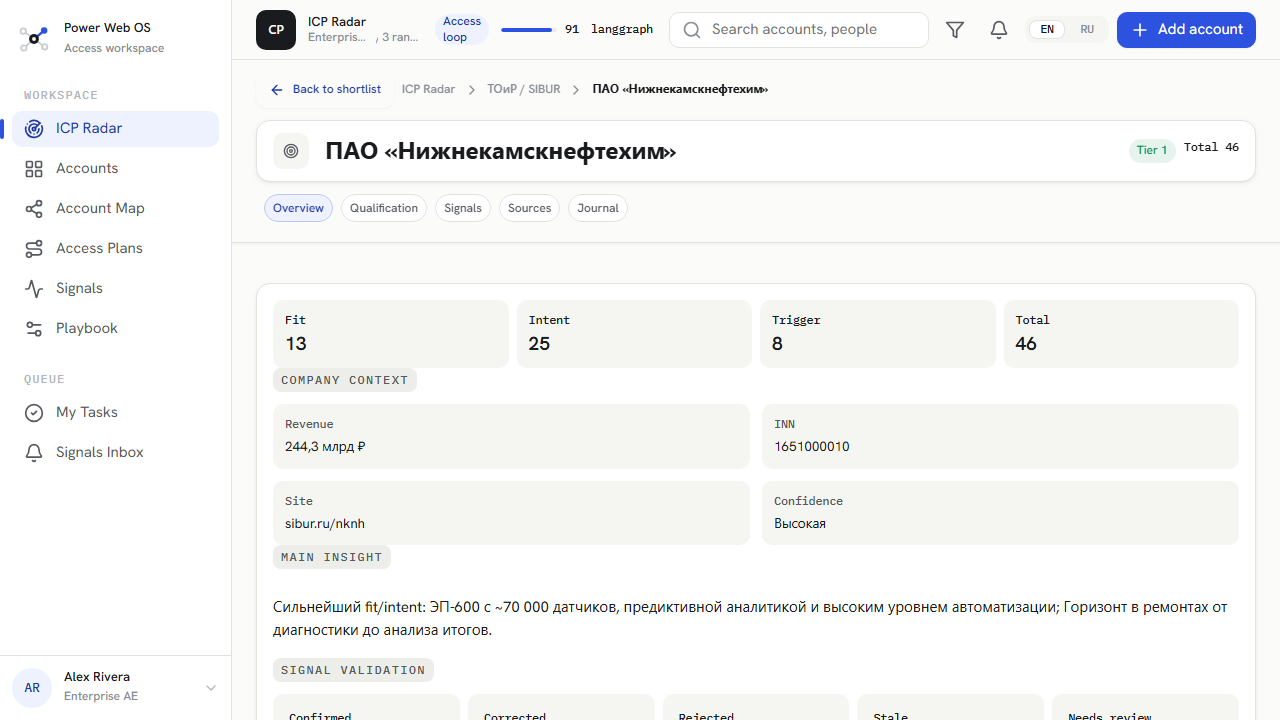
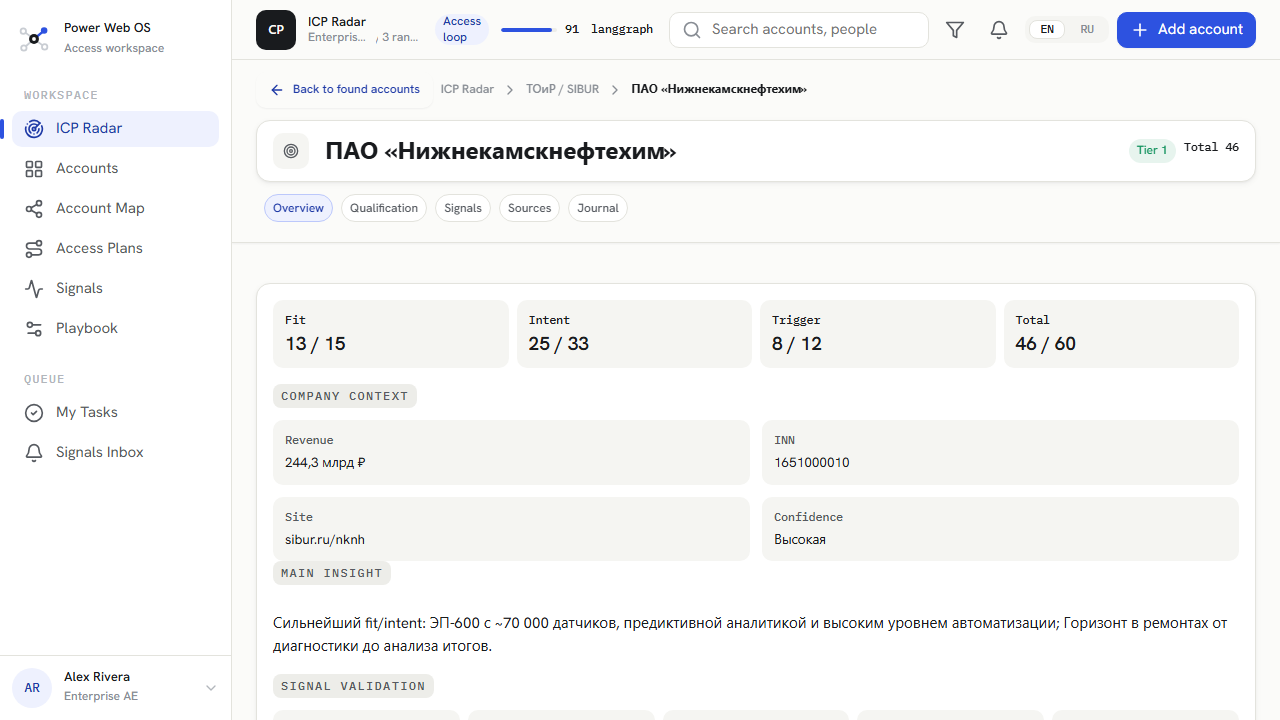
Polish ICP Radar live UX

diff --git a/frontend/src/i18n.ts b/frontend/src/i18n.ts
@@ -48,11 +48,11 @@ export const resources = {
         loadingTitle: 'Loading ICP Radar',
         loadingCopy: 'Reading the generated ICP Radar artifact from the local Vite server.',
         eyebrow: 'ICP Radar',
-        title: 'ТОиР automation shortlist',
+        title: 'ТОиР automation found accounts',
         summary: '{{count}} legal entities ranked for {{product}} inside {{holding}}.',
         tableAria: 'ICP Radar ranked candidate table',
         breadcrumbs: 'ICP Radar candidate breadcrumbs',
-        backToTable: 'Back to shortlist',
+        backToTable: 'Back to found accounts',
         columns: {
           company: 'Company',
           total: 'Total',
@@ -255,7 +255,7 @@ export const resources = {
         backToCatalog: 'Back to radar catalog',
         radarBreadcrumbs: 'ICP Radar breadcrumbs',
         radarTabs: 'Radar detail tabs',
-        shortlistTab: 'Shortlist',
+        shortlistTab: 'Found accounts',
         settingsTab: 'Settings',
         readOnly: 'Read-only',
         createRadar: 'Create radar',
@@ -273,9 +273,9 @@ export const resources = {
         newRadarOwner: 'ABM Team',
         duplicateName: '{{name}} copy',
         editingPlanned: 'Editing planned',
-        emptyShortlistEyebrow: 'Shortlist',
+        emptyShortlistEyebrow: 'Found accounts',
         emptyShortlistTitle: 'No generated candidates yet',
-        emptyShortlistCopy: '{{radarName}} is configured, but this demo slice has no generated shortlist for it.',
+        emptyShortlistCopy: '{{radarName}} is configured, but this demo slice has no generated found accounts for it.',
         emptyShortlistSummary: '{{product}} radar is configured without generated candidates in this slice.',
         openSettings: 'Open settings',
         radarStatus: {
@@ -697,11 +697,11 @@ export const resources = {
         loadingTitle: 'Загрузка ICP Radar',
         loadingCopy: 'Читаем сгенерированный ICP Radar artifact с локального Vite server.',
         eyebrow: 'ICP Radar',
-        title: 'Shortlist для автоматизации ТОиР',
+        title: 'Найденные аккаунты для автоматизации ТОиР',
         summary: '{{count}} юрлиц отранжированы для {{product}} внутри {{holding}}.',
         tableAria: 'Таблица кандидатов ICP Radar',
         breadcrumbs: 'Навигация по карте кандидата ICP Radar',
-        backToTable: 'К shortlist',
+        backToTable: 'К найденным аккаунтам',
         columns: {
           company: 'Компания',
           total: 'Итог',
@@ -903,7 +903,7 @@ export const resources = {
         backToCatalog: 'К каталогу радаров',
         radarBreadcrumbs: 'Навигация ICP Radar',
         radarTabs: 'Режимы радара',
-        shortlistTab: 'Shortlist',
+        shortlistTab: 'Найденные аккаунты',
         settingsTab: 'Настройки',
         readOnly: 'Только просмотр',
         createRadar: 'Создать радар',
@@ -921,9 +921,9 @@ export const resources = {
         newRadarOwner: 'ABM-команда',
         duplicateName: '{{name}} копия',
         editingPlanned: 'Редактирование запланировано',
-        emptyShortlistEyebrow: 'Shortlist',
+        emptyShortlistEyebrow: 'Найденные аккаунты',
         emptyShortlistTitle: 'Кандидаты еще не сгенерированы',
-        emptyShortlistCopy: '{{radarName}} настроен, но в этом demo-слайсе для него нет сгенерированного shortlist.',
+        emptyShortlistCopy: '{{radarName}} настроен, но в этом demo-слайсе для него нет сгенерированных найденных аккаунтов.',
         emptyShortlistSummary: 'Радар {{product}} настроен без сгенерированных кандидатов в этом слайсе.',
         openSettings: 'Открыть настройки',
         radarStatus: {

diff --git a/frontend/src/screens/ICPRadarScreen.tsx b/frontend/src/screens/ICPRadarScreen.tsx
@@ -1169,10 +1169,10 @@ function LiveRadarCandidateDetailView({
         {activeTab === 'overview' && (
           <Card>
             <div className="icp-score-grid">
-              <ScoreBox label={t('icpRadar.total')} value={liveTotalScore(candidate)} />
-              <ScoreBox label={t('icpRadar.fit')} value={candidate.score.fit_score} />
-              <ScoreBox label={t('icpRadar.intent')} value={candidate.score.intent_score} />
-              <ScoreBox label={t('icpRadar.live.sources')} value={candidate.evidence_refs.length} />
+              <ScoreBox label={t('icpRadar.total')} value={scoreWithMax(liveTotalScore(candidate), liveTotalScoreMax(candidate))} />
+              <ScoreBox label={t('icpRadar.fit')} value={scoreWithMax(candidate.score.fit_score, liveFitScoreMax(candidate))} />
+              <ScoreBox label={t('icpRadar.intent')} value={scoreWithMax(candidate.score.intent_score, liveIntentScoreMax(candidate))} />
+              <ScoreBox label={t('icpRadar.live.sources')} value={scoreWithMax(candidate.evidence_refs.length, artifact.sources.length)} />
             </div>
             <section className="icp-detail-section">
               <Eyebrow>{t('icpRadar.canonicalDetail.mainInsight')}</Eyebrow>
@@ -2507,10 +2507,10 @@ function CandidateScoreGrid({ candidate, validatedScore }: { candidate: ICPRadar
   const delta = validatedScore.effective_score.total_score - validatedScore.original_score.total_score;
   return (
     <div className="icp-score-grid">
-      <ScoreBox label={t('icpRadar.fit')} value={validatedScore.effective_score.fit_score} />
-      <ScoreBox label={t('icpRadar.intent')} value={validatedScore.effective_score.intent_score} />
-      <ScoreBox label={t('icpRadar.trigger')} value={validatedScore.effective_score.trigger_score} />
-      <ScoreBox delta={delta} label={t('icpRadar.total')} value={validatedScore.effective_score.total_score} />
+      <ScoreBox label={t('icpRadar.fit')} value={scoreWithMax(validatedScore.effective_score.fit_score, 15)} />
+      <ScoreBox label={t('icpRadar.intent')} value={scoreWithMax(validatedScore.effective_score.intent_score, 33)} />
+      <ScoreBox label={t('icpRadar.trigger')} value={scoreWithMax(validatedScore.effective_score.trigger_score, 12)} />
+      <ScoreBox delta={delta} label={t('icpRadar.total')} value={scoreWithMax(validatedScore.effective_score.total_score, 60)} />
     </div>
   );
 }
@@ -2591,7 +2591,7 @@ function SourceUrlList({ candidate }: { candidate: ICPRadarCandidate }) {
   );
 }
 
-function ScoreBox({ delta = 0, label, value }: { delta?: number; label: string; value: number }) {
+function ScoreBox({ delta = 0, label, value }: { delta?: number; label: string; value: number | string }) {
   return (
     <div className="icp-score-box">
       <Mono>{label}</Mono>
@@ -3360,6 +3360,22 @@ function radarOperationalStatus(status: string): RadarOperationalStatus {
 
 function liveTotalScore(candidate: LiveRadarCandidate): number {
   return candidate.score.fit_score + candidate.score.intent_score;
+}
+
+function liveFitScoreMax(candidate: LiveRadarCandidate): number {
+  return Math.max(candidate.qualification.length, candidate.score.fit_score);
+}
+
+function liveIntentScoreMax(candidate: LiveRadarCandidate): number {
+  return Math.max(candidate.signals.length * 2, candidate.score.intent_score);
+}
+
+function liveTotalScoreMax(candidate: LiveRadarCandidate): number {
+  return liveFitScoreMax(candidate) + liveIntentScoreMax(candidate);
+}
+
+function scoreWithMax(score: number, maxScore: number): string {
+  return `${score} / ${Math.max(score, maxScore)}`;
 }
 
 function cadenceKey(cadence: string) {

diff --git a/frontend/src/styles.css b/frontend/src/styles.css
@@ -1030,7 +1030,7 @@ button {
 
 .icp-radar-table {
   display: grid;
-  min-width: calc(var(--s-20) * 15);
+  min-width: calc(var(--s-20) * 13);
 }
 
 .icp-radar-table-head,
@@ -1389,17 +1389,8 @@ button {
   white-space: nowrap;
 }
 
-.icp-radar-table-live .icp-radar-table-head,
-.icp-radar-table-live .icp-candidate-row {
-  grid-template-columns:
-    minmax(calc(var(--s-20) * 3), calc(var(--s-20) * 4))
-    minmax(var(--s-12), var(--s-16))
-    var(--s-16)
-    var(--s-16)
-    var(--s-16)
-    var(--s-16)
-    var(--s-16)
-    minmax(calc(var(--s-20) + var(--s-6)), 0.8fr);
+.icp-radar-table-live {
+  min-width: calc(var(--s-20) * 13);
 }
 
 .live-radar-fact-list,
@@ -2217,6 +2208,10 @@ button {
   min-width: 0;
 }
 
+.icp-score-grid + .icp-detail-section {
+  margin-top: var(--s-4);
+}
+
 .icp-detail-section > .eyebrow,
 .icp-preview-section > .eyebrow {
   align-self: start;
@@ -2274,6 +2269,26 @@ button {
   grid-template-columns: var(--s-10) minmax(0, 1fr) var(--s-8);
   padding: var(--s-2);
   border-bottom: 1px solid var(--border-faint);
+}
+
+.icp-candidate-preview .criterion-row {
+  grid-template-columns: var(--s-10) minmax(0, 1fr) minmax(var(--s-16), max-content);
+  column-gap: var(--s-4);
+  align-items: center;
+}
+
+.icp-candidate-preview .criterion-row > span {
+  padding-inline-end: var(--s-3);
+}
+
+.icp-candidate-preview .criterion-row > :last-child {
+  justify-self: end;
+}
+
+.icp-candidate-preview .criterion-row .badge {
+  max-width: calc(var(--s-20) * 2);
+  overflow: hidden;
+  text-overflow: ellipsis;
 }
 
 .criteria-list-compact {

diff --git a/tests/test_frontend_demo_contract.py b/tests/test_frontend_demo_contract.py
@@ -533,6 +533,11 @@ def test_icp_radar_screen_is_default_and_loads_fixture_artifact() -> None:
     assert ".icp-radar-run-mode" in css
     assert ".icp-radar-header-meta-row" in css
     assert ".icp-radar-table-live" in css
+    assert ".icp-radar-table-live .icp-radar-table-head" not in css
+    assert ".icp-radar-table-live .icp-candidate-row" not in css
+    assert ".icp-candidate-preview .criterion-row" in css
+    assert "grid-template-columns: var(--s-10) minmax(0, 1fr) minmax(var(--s-16), max-content)" in css
+    assert ".icp-score-grid + .icp-detail-section" in css
     assert "--s-14" not in css
     assert ".icp-candidate-detail-tabs" in css
     assert ".icp-candidate-detail-panel" in css
@@ -660,6 +665,10 @@ def test_icp_radar_screen_is_default_and_loads_fixture_artifact() -> None:
         "Уверенность",
     ]:
         assert ru_label in i18n
+    assert "shortlistTab: 'Found accounts'" in i18n
+    assert "shortlistTab: 'Найденные аккаунты'" in i18n
+    assert "backToTable: 'Back to found accounts'" in i18n
+    assert "backToTable: 'К найденным аккаунтам'" in i18n
 
 
 def test_frontend_public_artifact_is_available_for_vite() -> None:

diff --git a/demo/README.md b/demo/README.md
@@ -77,7 +77,7 @@ The live mini radar command writes `demo/output/live_mini_icp_radar_run.json` an
 
 When the live artifact exists, inspect `ТОиР Quick Live Radar` through the same shortlist UX as the fixture radar: sticky first candidate column, bounded inline preview, and `Open details` into the tabbed in-shell candidate detail view. Live runtime metadata is shown in the `Journal` tab. Live results are a different data source, not a different UI pattern.
 
-The frontend command prints a local Vite URL. Open it to inspect the `ICP Radar` catalog first, switch the UI between EN/RU from the top bar if needed, then open `ТОиР / SIBUR`. Use `Shortlist` to scan candidates and `Settings` to inspect or edit the radar definition. Settings are edited by block: selected radar header, global search base, account qualification rules, monitoring, intent signals, scoring model, and validation. The header owns name, description, active status, read-only owner, duplicate, local delete, and reset. Rules and signals are edited in business language as flat natural-language rows; generated IDs/codes are shown only as compact references and are not manually edited. Sources are entities, the global source base is shown as a bounded table, and rule/signal source policy uses global-base, local-source, cross-validation, and HITL switches instead of source IDs or fallback confidence. Monitoring uses dropdown policies and number/unit duration controls. Scoring uses Fit, Intent, and Tier models with preset dropdowns; custom formula text appears only in custom mode. Settings edits are saved only to browser local demo state under `power-web-os-icp-radar-config-overrides`; they do not rewrite generated JSON, run live search, or recalculate the fixture shortlist. Click a candidate row to open a bounded inline preview with four canonical blocks: summary, tier explanation, qualification, and signals. Open the candidate detail view for overview, qualification, signals, sources, and journal tabs. In candidate detail, C1-C20 signals start as a compact table with filters, sorting, expandable evidence rows, and local confirm/correct/reject/stale controls. Validation decisions are stored in browser local demo state under `power-web-os-icp-radar-signal-validation`, update the effective shortlist score/ranking, and do not mutate generated artifacts. Then use `Accounts` for the accepted portfolio. Click an account row to inspect that account's Access Plan visually inside the Power Web OS shell. Use the sidebar `Account Map` item to inspect the selected account's Power Web Lite board and highlighted recommended access route. Use `Playbook` to compare the current playbook with the pre-generated `No partner motion` variant and see how route decisions and route preview change without a page reload.
+The frontend command prints a local Vite URL. Open it to inspect the `ICP Radar` catalog first, switch the UI between EN/RU from the top bar if needed, then open `ТОиР / SIBUR`. Use `Found accounts` to scan candidates and `Settings` to inspect or edit the radar definition. Settings are edited by block: selected radar header, global search base, account qualification rules, monitoring, intent signals, scoring model, and validation. The header owns name, description, active status, read-only owner, duplicate, local delete, and reset. Rules and signals are edited in business language as flat natural-language rows; generated IDs/codes are shown only as compact references and are not manually edited. Sources are entities, the global source base is shown as a bounded table, and rule/signal source policy uses global-base, local-source, cross-validation, and HITL switches instead of source IDs or fallback confidence. Monitoring uses dropdown policies and number/unit duration controls. Scoring uses Fit, Intent, and Tier models with preset dropdowns; custom formula text appears only in custom mode. Settings edits are saved only to browser local demo state under `power-web-os-icp-radar-config-overrides`; they do not rewrite generated JSON, run live search, or recalculate the fixture shortlist. Click a candidate row to open a bounded inline preview with four canonical blocks: summary, tier explanation, qualification, and signals. Open the candidate detail view for overview, qualification, signals, sources, and journal tabs. In candidate detail, C1-C20 signals start as a compact table with filters, sorting, expandable evidence rows, and local confirm/correct/reject/stale controls. Validation decisions are stored in browser local demo state under `power-web-os-icp-radar-signal-validation`, update the effective shortlist score/ranking, and do not mutate generated artifacts. Then use `Accounts` for the accepted portfolio. Click an account row to inspect that account's Access Plan visually inside the Power Web OS shell. Use the sidebar `Account Map` item to inspect the selected account's Power Web Lite board and highlighted recommended access route. Use `Playbook` to compare the current playbook with the pre-generated `No partner motion` variant and see how route decisions and route preview change without a page reload.
 
 ## Demo Data
 
@@ -106,7 +106,7 @@ The ICP Radar fixture source is the SIBUR-style spreadsheet analysis:
 - `Summary`: ranked shortlist and recommended triage action;
 - `Sources`: evidence source registry.
 
-The current demo also generates an ICP Radar catalog. It contains the active `ТОиР / SIBUR` radar plus configured/planned radar examples. Open a radar row to switch between `Shortlist` and `Settings`. In `Settings`, edit each block independently: header metadata/lifecycle, shared source base, flat account qualification rules, intent signals with a global `0/1/2` rubric and optional overrides, monitoring policy, Fit/Intent/Tier scoring presets, and validation findings. Local drafts can be duplicated, locally deleted, discarded, reset to the generated artifact, or reset globally from the catalog.
+The current demo also generates an ICP Radar catalog. It contains the active `ТОиР / SIBUR` radar plus configured/planned radar examples. Open a radar row to switch between `Found accounts` and `Settings`. In `Settings`, edit each block independently: header metadata/lifecycle, shared source base, flat account qualification rules, intent signals with a global `0/1/2` rubric and optional overrides, monitoring policy, Fit/Intent/Tier scoring presets, and validation findings. Local drafts can be duplicated, locally deleted, discarded, reset to the generated artifact, or reset globally from the catalog.
 
 The XLSX does not contain criterion-level facts. The demo therefore adds a curated synthetic annotation fixture:
 

diff --git a/docs/user/USER_GUIDE.md b/docs/user/USER_GUIDE.md
@@ -42,7 +42,7 @@ Open the Vite URL printed by the frontend command. The demo opens in a bounded P
 
 - ICP Radar catalog with multiple configured radars;
 - experimental `ТОиР Quick Live Radar`, which shows only real provider-backed findings from `frontend/public/demo/live_mini_icp_radar_run.json`;
-- selected-radar `Shortlist` and editable local-demo `Settings` modes;
+- selected-radar `Found accounts` and editable local-demo `Settings` modes;
 
 - sidebar navigation for `ICP Radar`, `Accounts`, `Account Map`, `Access Plans`, `Signals`, and `Playbook`;
 - profile and navigation frame that stays visible while workspace content scrolls inside the app;
@@ -78,7 +78,7 @@ The language switcher localizes UI chrome plus visible deterministic demo data s
 
 ### ICP Radar catalog and shortlist
 
-The `ICP Radar` screen now starts with a list-first catalog of configured radars. Each row represents a configured ICP Radar with aligned columns for status, owner, cadence, last run, run mode, candidate count, needs-review count, and accepted count. Use `Create radar` to add a browser-local demo radar, or open `ТОиР / SIBUR` to inspect the active fixture-backed radar. Its `Shortlist` tab contains the current ranked table, and its `Settings` tab edits the radar definition by block: radar header, global search base, account qualification rules, monitoring, intent signals, scoring model, and validation.
+The `ICP Radar` screen now starts with a list-first catalog of configured radars. Each row represents a configured ICP Radar with aligned columns for status, owner, cadence, last run, run mode, candidate count, needs-review count, and accepted count. Use `Create radar` to add a browser-local demo radar, or open `ТОиР / SIBUR` to inspect the active fixture-backed radar. Its `Found accounts` tab contains the current ranked table, and its `Settings` tab edits the radar definition by block: radar header, global search base, account qualification rules, monitoring, intent signals, scoring model, and validation.
 
 Settings are intentionally business-facing:
 
@@ -93,7 +93,7 @@ Settings are intentionally business-facing:
 - Scoring uses only `Fit / Соответствие`, `Intent / Интент`, and `Tier / Уровень`. Presets cover arithmetic mean, weighted average, maximum signal, capped sum, and custom formula.
 - Custom formula mode is the only place where generated rule IDs and signal codes matter.
 
-The catalog also includes `ТОиР Quick Live Radar`. This is the first live experimental radar. It is launched from the CLI, not from the UI. Before a successful run, its `Shortlist` tab shows an empty state and the command to generate `live_mini_icp_radar_run.json`. After a successful run, the radar is reviewed through the same canonical table-first flow as `ТОиР / SIBUR`: candidates stay in the same sticky-column shortlist, row click opens the same four-block preview, and `Open details` opens the same tabbed in-shell detail view. Runtime/provider metadata is available in the candidate `Journal` tab, not on the main shortlist. Live findings always require human review and do not flow into `Accounts` automatically.
+The catalog also includes `ТОиР Quick Live Radar`. This is the first live experimental radar. It is launched from the CLI, not from the UI. Before a successful run, its `Found accounts` tab shows an empty state and the command to generate `live_mini_icp_radar_run.json`. After a successful run, the radar is reviewed through the same canonical table-first flow as `ТОиР / SIBUR`: candidates stay in the same sticky-column shortlist, row click opens the same four-block preview, and `Open details` opens the same tabbed in-shell detail view. Runtime/provider metadata is available in the candidate `Journal` tab, not on the main shortlist. Live findings always require human review and do not flow into `Accounts` automatically.
 
 Start with `ICP Radar`. This is the upstream ABM radar view: it ranks candidate legal entities before they are accepted into Power Web work. The main surface is a wide table: the company column stays fixed while score, tier, evidence, and criteria-related columns can scroll horizontally inside the table. Click a candidate row to open a bounded inline preview with the main signal, short recommendation, top evidence refs, and top criteria. Open the candidate detail view when you need the full C1-C20 signal breakdown, source refs, and local signal validation controls. Take-into-work is still a planned follow-up slice.
 
@@ -127,7 +127,7 @@ Open `Playbook` to see how the customer's rules shape the plan. The screen shows
 
 The current ICP Radar UI is table-first:
 
-- The workspace opens with a list-first radar catalog; select a radar row to enter its `Shortlist` and `Settings` tabs.
+- The workspace opens with a list-first radar catalog; select a radar row to enter its `Found accounts` and `Settings` tabs.
 - `Settings` is edited by block. The radar header owns name/description/status editing and lifecycle actions; each content block has its own `Edit`, `Save`, and `Discard`, and saved edits are stored only in browser local demo state and labelled as `Local draft`.
 - Switches are used for active/inactive and boolean source policies. Disabled switches are informational and should not mutate local demo state.
 - You can create a radar, edit an existing radar, save a draft, discard unsaved changes, duplicate a radar, reset one radar back to the generated artifact, or reset all demo changes.
